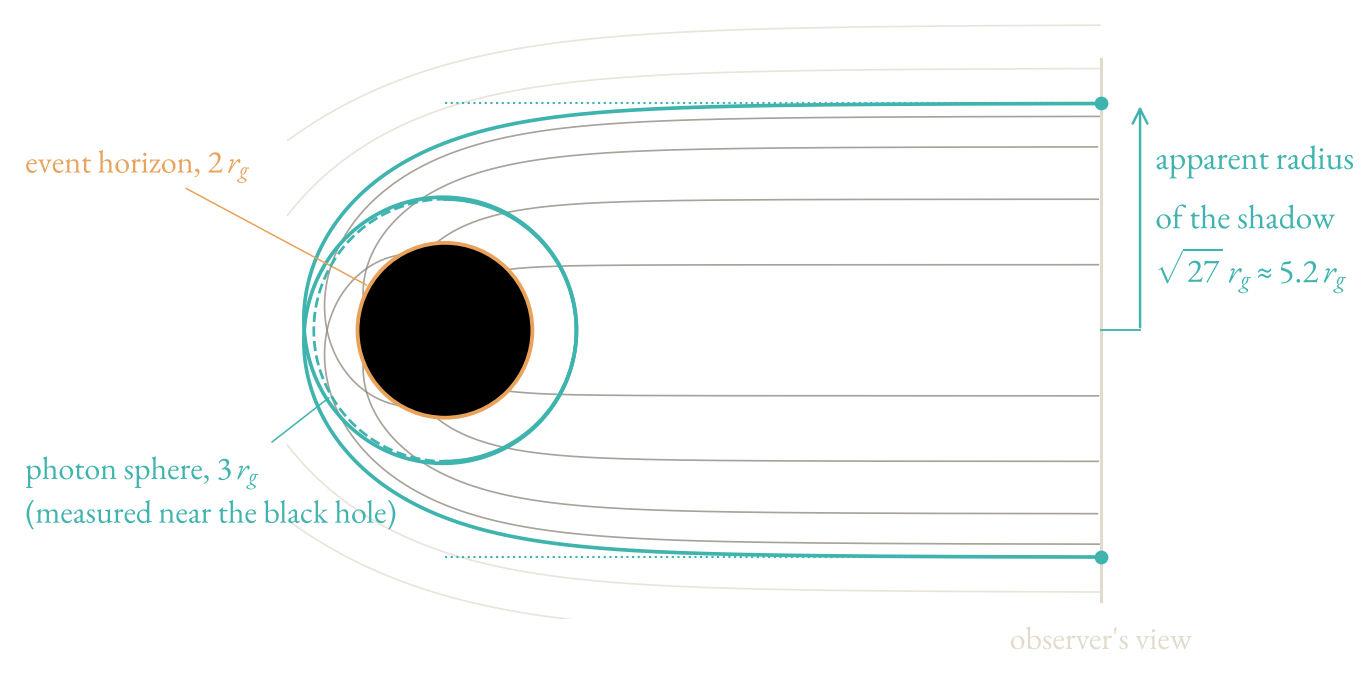
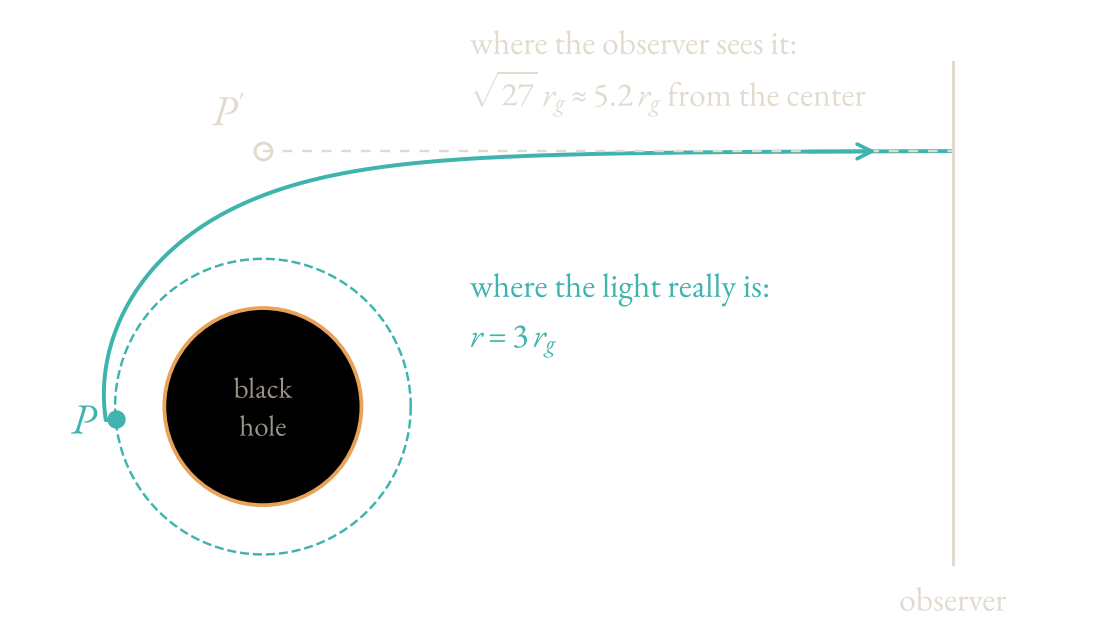
Simpler photon sphere schematic
Claude-Session: https://claude.ai/code/session_0119WMdujAoPfFkywJUaHbjU

diff --git a/_figures/make_photon_sphere.py b/_figures/make_photon_sphere.py
@@ -1,6 +1,5 @@
-# Schematic: the photon sphere (3 r_g, near the black hole) and how a distant observer sees it (radius sqrt(27) r_g).
-# Light rays in Schwarzschild spacetime, from the orbit equation u'' + u = 3 u^2 (u = r_g/r, phi = angle).
-# Plain loops on purpose, so the script is easy to read.
+# Simple schematic: where the photon sphere really is (P, at 3 r_g near the black hole)
+# and where a distant observer sees it (P', at sqrt(27) r_g), using one real light ray and one apparent straight line.
 import numpy as np
 import matplotlib
 matplotlib.use('Agg')
@@ -12,62 +11,46 @@ for f in ['fonts/EBGaramond[wght].ttf', 'fonts/EBGaramond-Italic[wght].ttf']:
 ink = '#e2dbcd'
 plt.rcParams.update({'font.family': 'EB Garamond', 'mathtext.fontset': 'custom', 'mathtext.rm': 'EB Garamond',
                      'mathtext.it': 'EB Garamond:italic', 'font.size': 24, 'text.color': ink, 'savefig.transparent': True})
-TEAL = '#3fb3ad'; ORANGE = '#e8a25a'; GREY = '#8a8478'
+TEAL = '#3fb3ad'; ORANGE = '#e8a25a'; GREY = '#9a9488'
 bc = np.sqrt(27.0)
 
-def ray(b, phimax=50.0):
-    # integrate the orbit equation with a simple RK4 in phi; returns x, y of the ray
-    u, du = 0.0, 1.0 / b
-    phi, h = 0.0, 0.002
-    xs, ys = [], []
-    for step in range(20000):
-        if u > 0:
-            xs.append(np.cos(phi) / u); ys.append(np.sin(phi) / u)
-        if u >= 0.5 or (u < 0 and step > 10) or phi > phimax:   # crossed the horizon, or escaped
-            break
-        def acc(uu): return 3 * uu * uu - uu
-        k1u, k1v = du, acc(u)
-        k2u, k2v = du + 0.5 * h * k1v, acc(u + 0.5 * h * k1u)
-        k3u, k3v = du + 0.5 * h * k2v, acc(u + 0.5 * h * k2u)
-        k4u, k4v = du + h * k3v, acc(u + h * k3u)
-        u += h * (k1u + 2 * k2u + 2 * k3u + k4u) / 6
-        du += h * (k1v + 2 * k2v + 2 * k3v + k4v) / 6
-        phi += h
-    return np.array(xs), np.array(ys)
+# the real ray: integrate u'' + u = 3u^2 (u = r_g/r) from the observer's side, stop when it reaches the photon sphere
+u, du, phi, h = 0.0, 1.0 / (bc + 1e-9), 0.0, 0.001
+xs, ys = [], []
+while True:
+    if u > 0:
+        xs.append(np.cos(phi) / u); ys.append(np.sin(phi) / u)
+    if u > 1 / 3.2:
+        break
+    du += h * (3 * u * u - u)
+    u += h * du
+    phi += h
+xs, ys = np.array(xs), np.array(ys)
+P = (3 * np.cos(phi), 3 * np.sin(phi))   # the point on the photon sphere where this light comes from
+xs = np.append(xs, P[0]); ys = np.append(ys, P[1])
 
-fig, ax = plt.subplots(figsize=(14, 7.2))
-ax.set_aspect('equal'); ax.set_xlim(-9.8, 17.5); ax.set_ylim(-6.6, 7.2); ax.axis('off')
+fig, ax = plt.subplots(figsize=(13, 6.4))
+ax.set_aspect('equal'); ax.set_xlim(-5, 17); ax.set_ylim(-3.6, 7.4); ax.axis('off')
 t = np.linspace(0, 2 * np.pi, 400)
-
-# rays: captured (inside sqrt 27) and escaping (outside), mirrored above and below
-for b in [1.5, 3.0, 4.2, 4.9, 6.0, 7.0]:
-    x, y = ray(b)
-    keep = (x < 15) & (x > -3.6)
-    col = GREY if b < bc else ink
-    for s in [1, -1]:
-        ax.plot(np.where(keep, x, np.nan), s * np.where(keep, y, np.nan), color=col, lw=1.1, alpha=0.75)
-# the critical ray, which winds onto the photon sphere
-x, y = ray(bc + 1e-6, phimax=2.5 * np.pi)
-keep = (x < 15) & (x > -3.6)
-for s in [1, -1]:
-    ax.plot(np.where(keep, x, np.nan), s * np.where(keep, y, np.nan), color=TEAL, lw=2.4)
-
 ax.add_patch(plt.Circle((0, 0), 2, color='black', ec=ORANGE, lw=2.5, zorder=3))
-ax.plot(3 * np.cos(t), 3 * np.sin(t), ls='--', color=TEAL, lw=1.8, zorder=4)
+ax.plot(3 * np.cos(t), 3 * np.sin(t), ls='--', color=TEAL, lw=1.6)
 
-# observer's screen on the right, with the apparent edge of the shadow
-ax.plot([15, 15], [-6.2, 6.2], color=ink, lw=2)
-for s in [1, -1]:
-    ax.plot([0, 15], [s * bc, s * bc], ls=':', color=TEAL, lw=1.4)
-    ax.plot(15, s * bc, 'o', color=TEAL, ms=8, zorder=5)
-ax.plot([15, 15.9], [0, 0], color=TEAL, lw=1.2)
-ax.annotate('', xy=(15.9, bc), xytext=(15.9, 0), arrowprops=dict(arrowstyle='->', color=TEAL, lw=1.6))
-ax.text(16.25, bc / 2, 'apparent radius\nof the shadow\n$\\sqrt{27}\\,r_g \\approx 5.2\\,r_g$', va='center', fontsize=22, color=TEAL, linespacing=1.25)
-ax.text(15, -6.55, "observer's view", ha='center', va='top', fontsize=21, color=ink)
+# real path of the light, from P to the observer
+keep = xs < 14
+ax.plot(xs[keep], ys[keep], color=TEAL, lw=2.6)
+ax.annotate('', xy=(12.5, ys[np.argmin(abs(xs - 12.5))]), xytext=(11.0, ys[np.argmin(abs(xs - 11.0))]),
+            arrowprops=dict(arrowstyle='->', color=TEAL, lw=2.4))
+# what the observer assumes: a straight line, traced back
+ax.plot([0, 14], [bc, bc], ls=(0, (4, 4)), color=ink, lw=1.6)
+ax.plot([14, 14], [-3.2, 7.0], color=ink, lw=2)
+ax.text(14, -3.45, 'observer', ha='center', va='top', fontsize=22)
 
-ax.annotate('photon sphere, $3\\,r_g$\n(measured near the black hole)', xy=(-2.6, -1.5), xytext=(-9.6, -4.4), fontsize=21,
-            color=TEAL, arrowprops=dict(arrowstyle='-', color=TEAL, lw=1))
-ax.annotate('event horizon, $2\\,r_g$', xy=(-1.73, 1.0), xytext=(-9.6, 3.6), fontsize=21, color=ORANGE,
-            arrowprops=dict(arrowstyle='-', color=ORANGE, lw=1))
+ax.plot(*P, 'o', color=TEAL, ms=11, zorder=6)
+ax.plot(0, bc, 'o', color=ink, ms=11, zorder=6, mfc='none', mew=2)
+ax.text(P[0] - 0.4, P[1], '$P$', ha='right', va='center', fontsize=28, color=TEAL)
+ax.text(-0.35, bc + 0.25, "$P'$", ha='right', va='bottom', fontsize=28, color=ink)
+ax.text(4.2, 1.2, 'where the light really is:\n$r = 3\\,r_g$', fontsize=22, color=TEAL, linespacing=1.2)
+ax.text(4.2, 6.1, 'where the observer sees it:\n$\\sqrt{27}\\,r_g \\approx 5.2\\,r_g$ from the center', fontsize=22, color=ink, linespacing=1.2)
+ax.text(0, 0, 'black\nhole', ha='center', va='center', fontsize=19, color=GREY, zorder=4, linespacing=1.0)
 plt.savefig('../img/explainers/jmn-fig0_photon_sphere.png', dpi=110, bbox_inches='tight', pad_inches=0.15)
-print('ok')
+print('ok', P)
